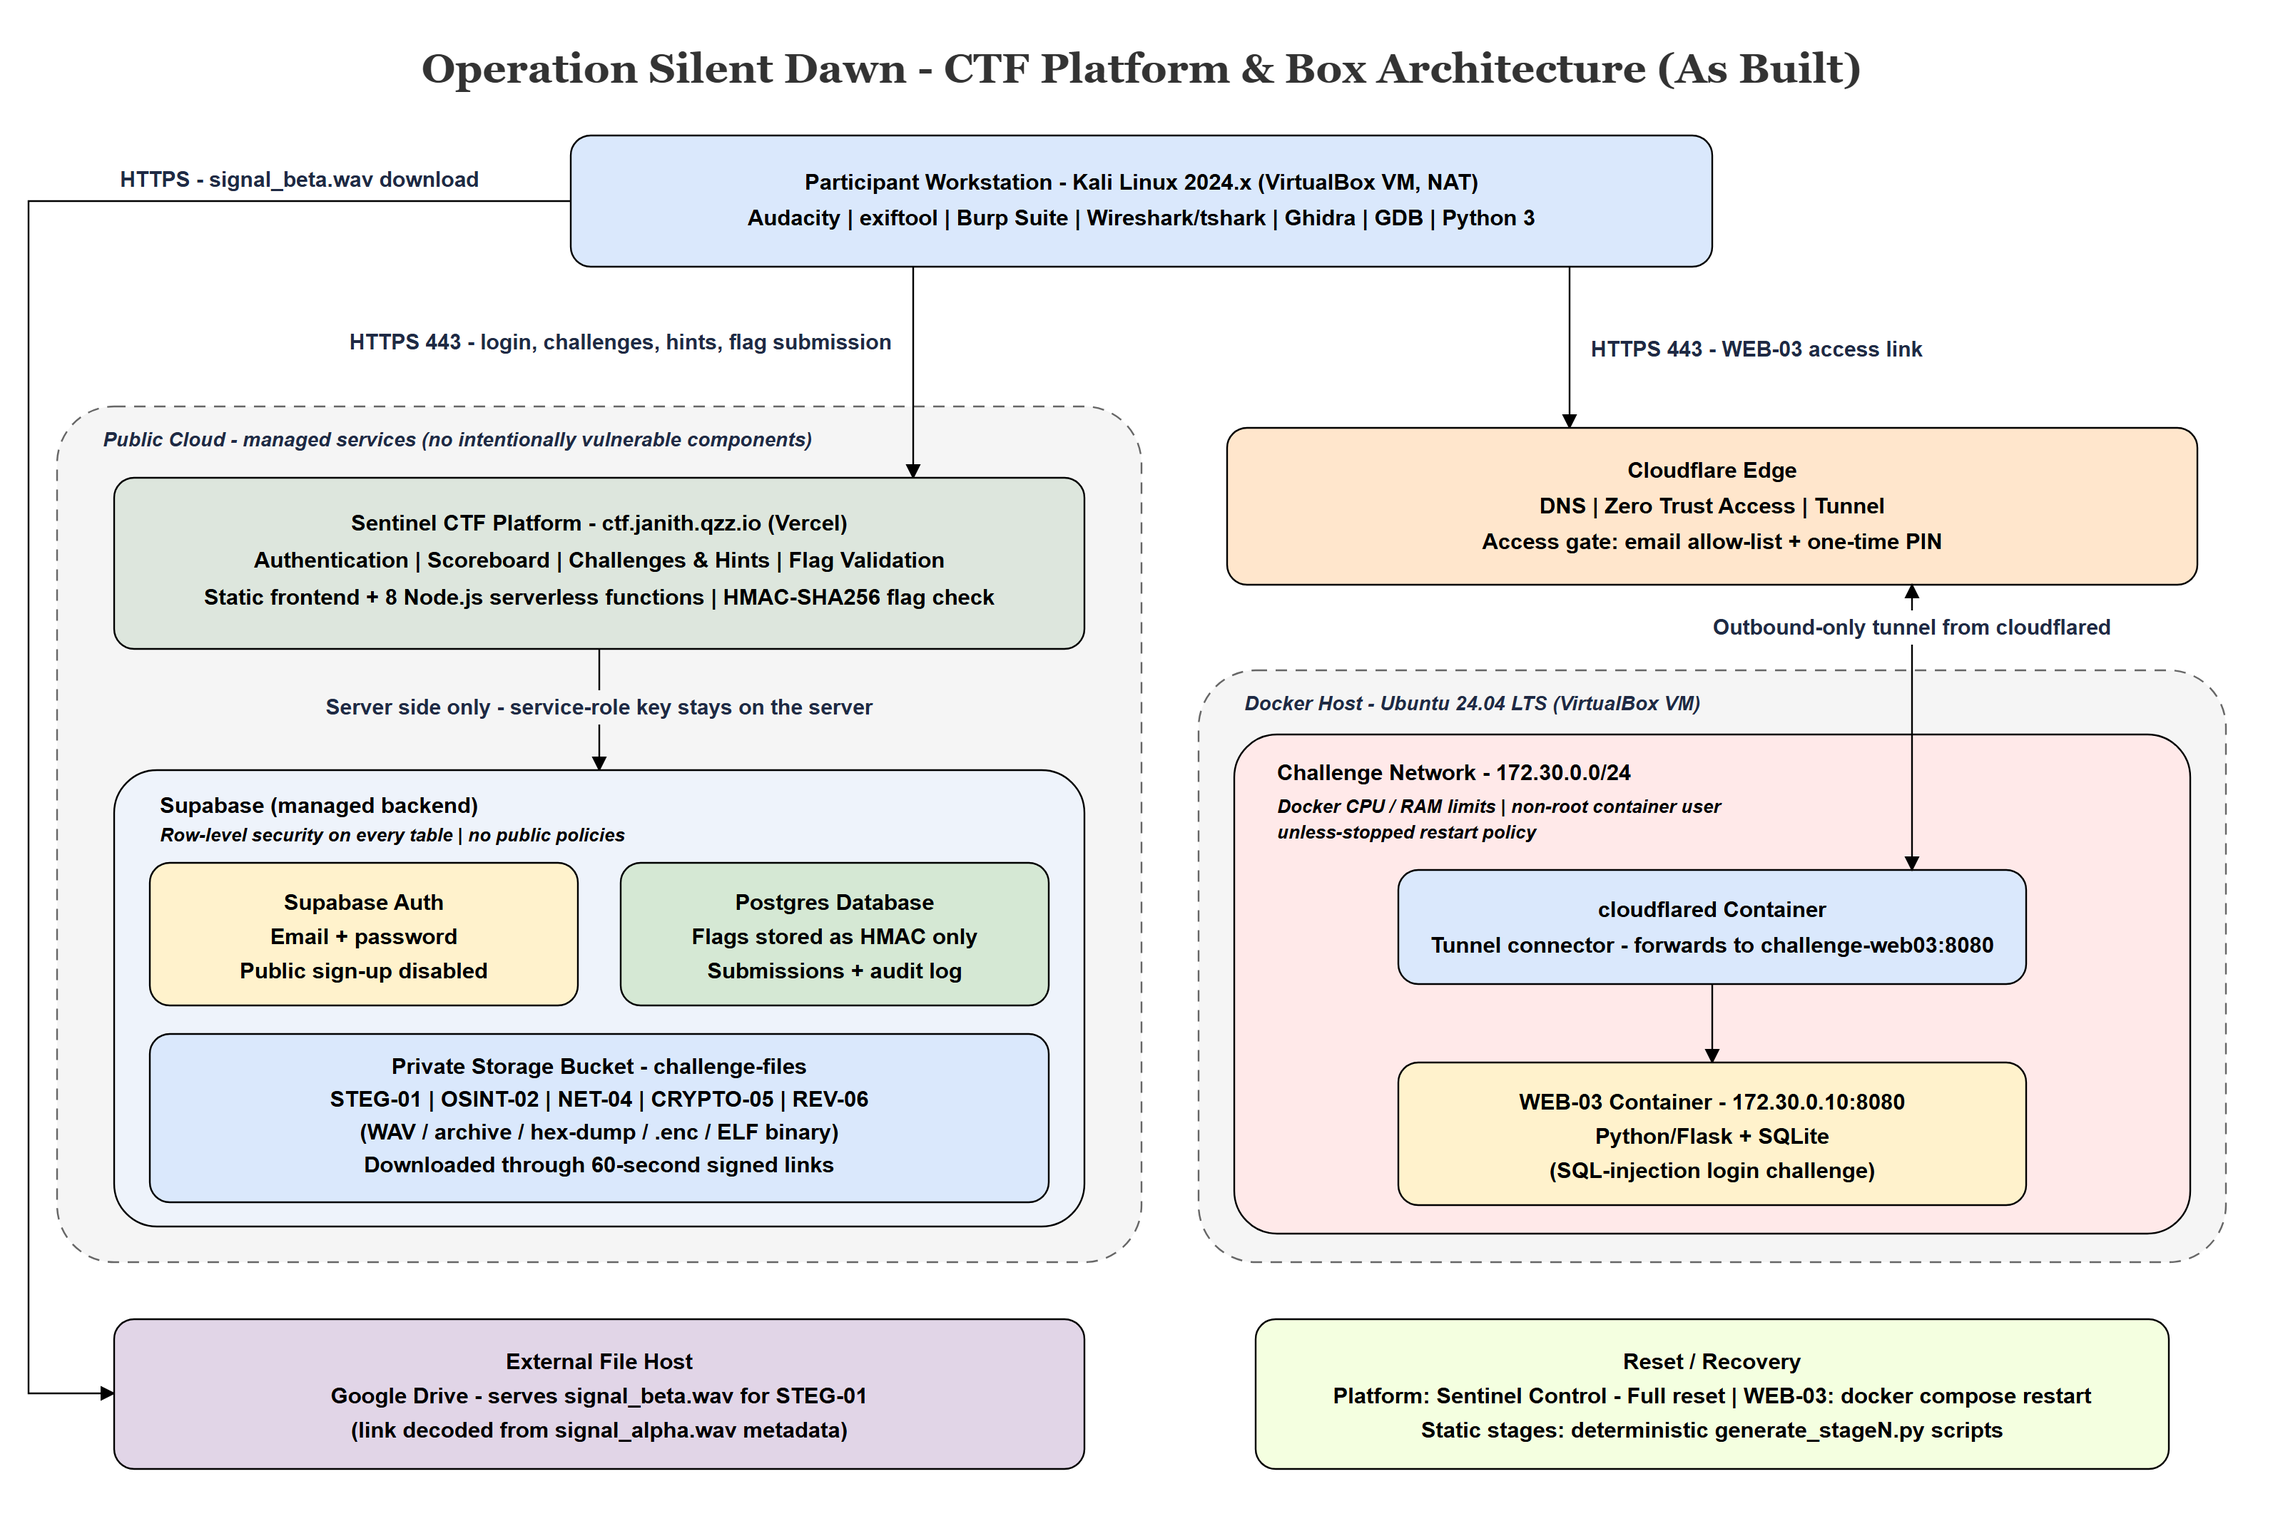
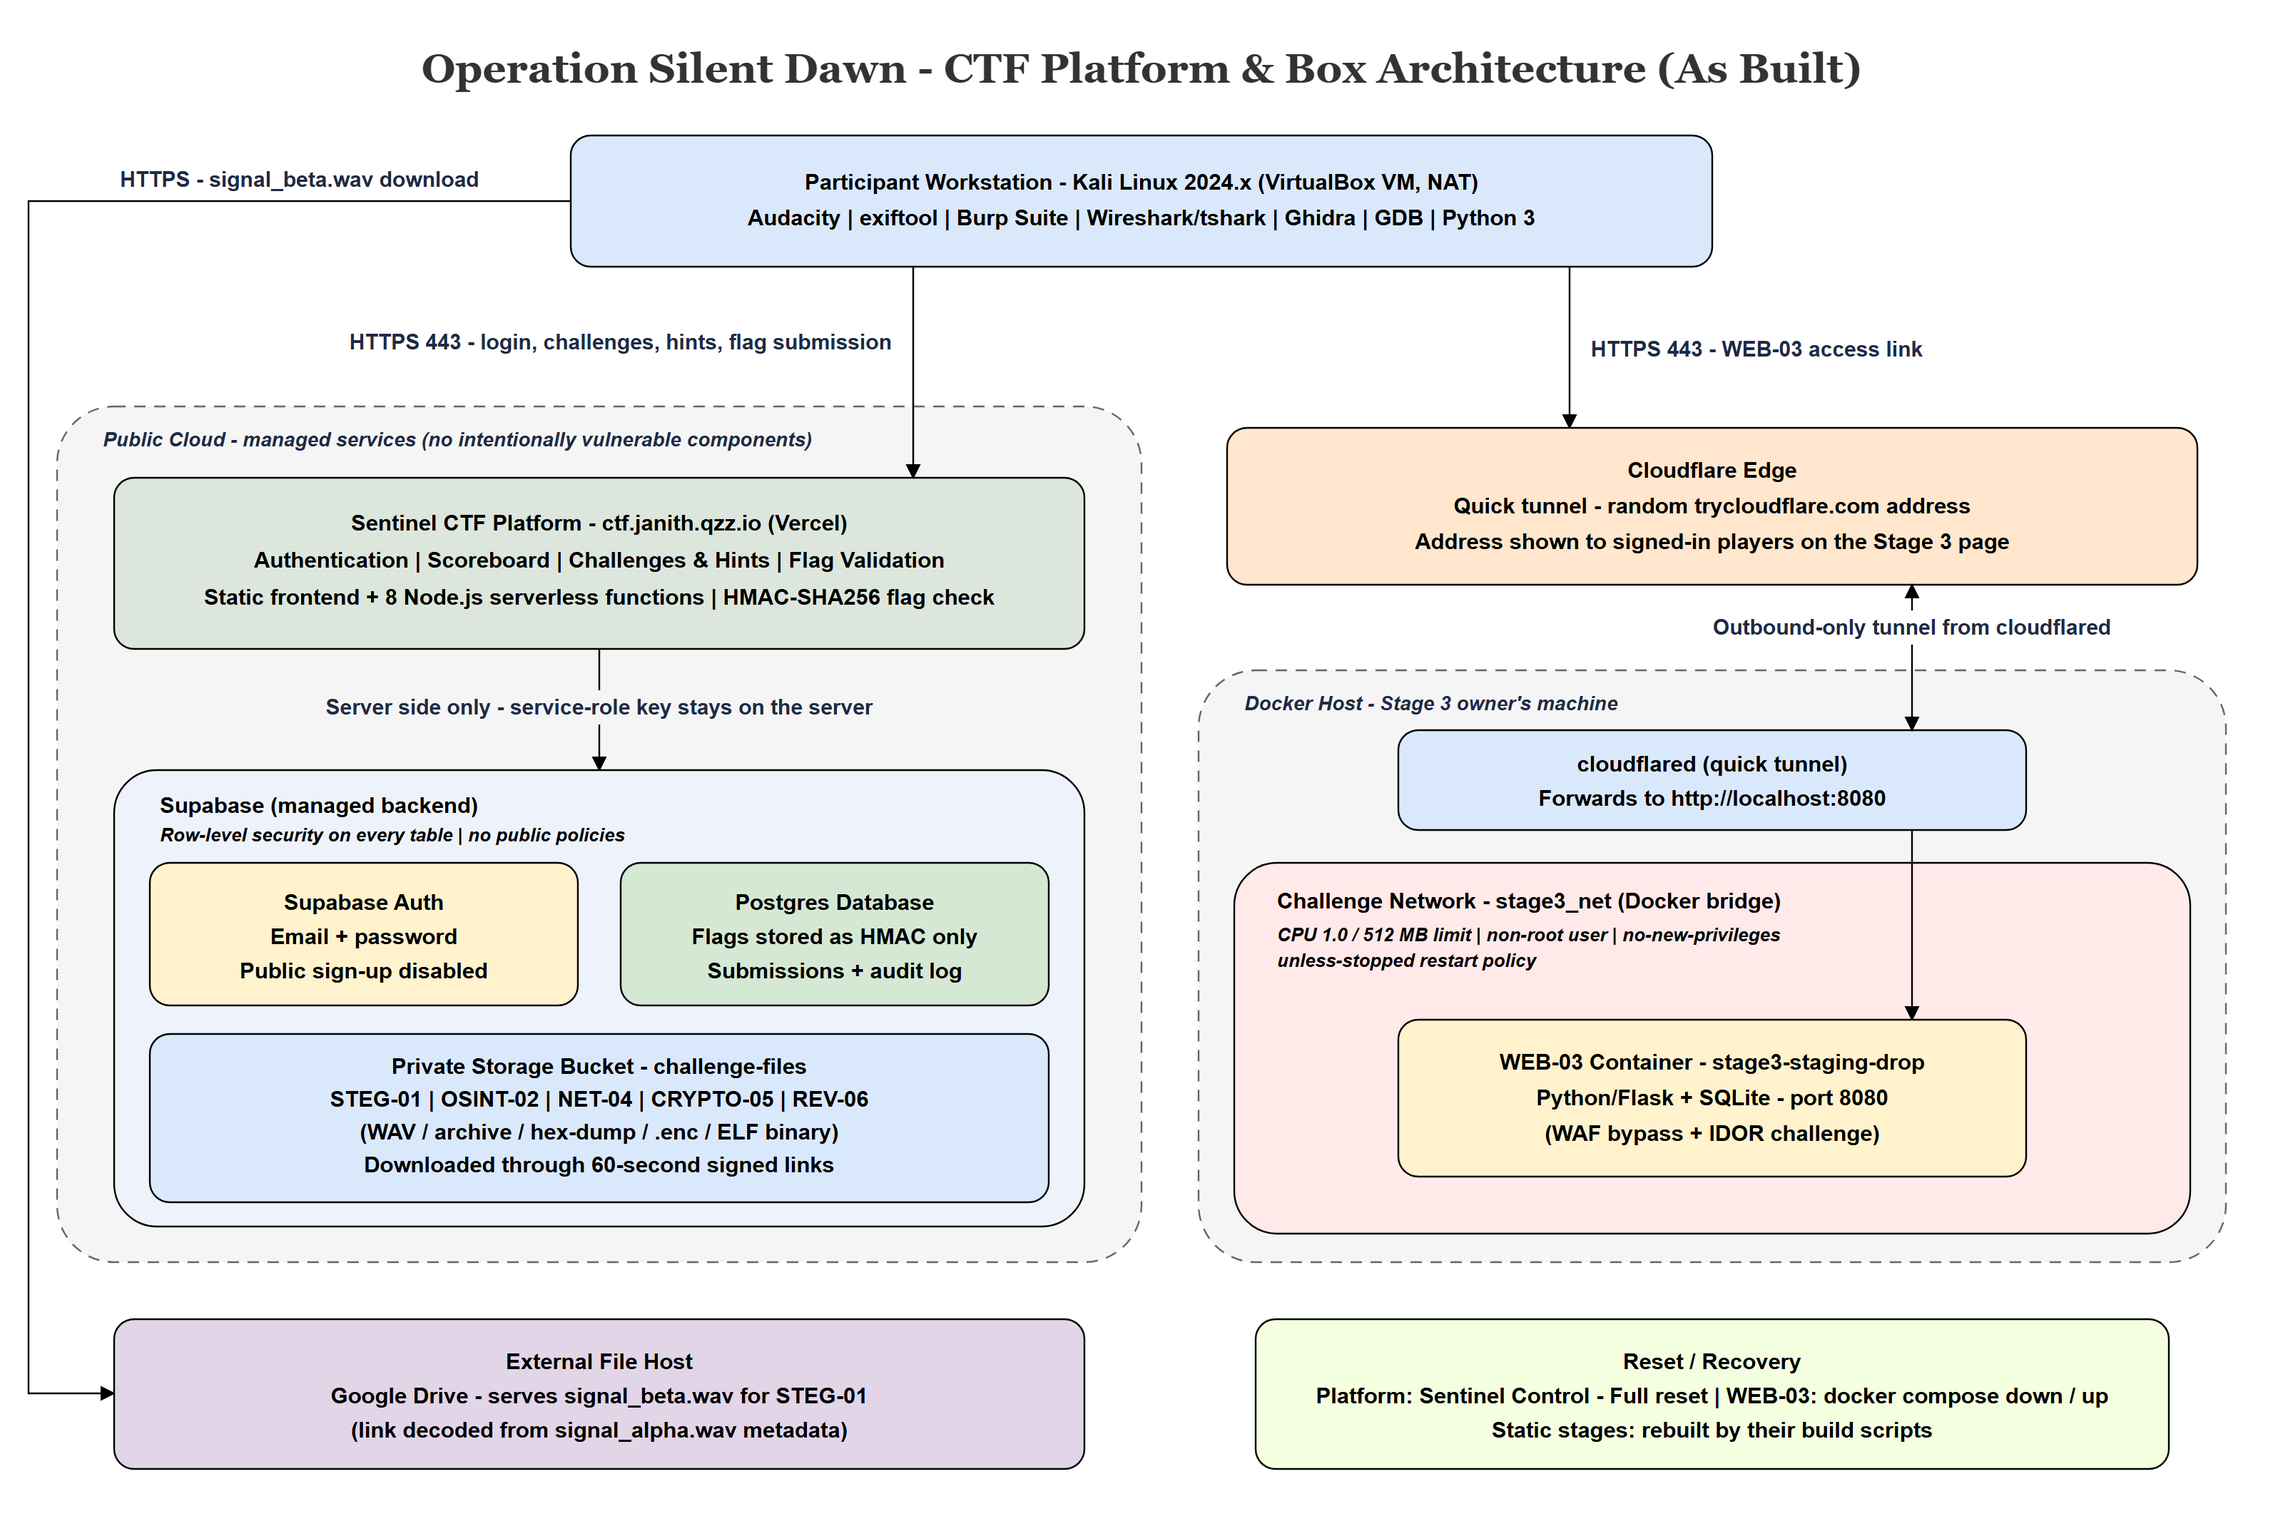
Docs: fill main README and ports table, update as-built diagram

Changed region(s): [[0.5625, 0.4318, 0.9062, 0.8019], [0.5625, 0.8944, 0.9375, 0.9561], [0.625, 0.3084, 0.875, 0.3701]]

diff --git a/README.md b/README.md
@@ -1,8 +1,8 @@
 # Operation Silent Dawn: The Eclipse Infiltration
 
-CTF Play Box for IE3132 Penetration Testing, Assignment 02. Six stages, flag format `Eclipse{...}`.
+CTF Play Box for IE3132 Penetration Testing, Assignment 02. Six stages across six domains, flag format `Eclipse{...}`.
 
-> This repository holds generator and solver scripts, so it contains answer material. Keep it private.
+> This repository holds build and solver scripts, so it contains answer material. Keep it private.
 
 ## Group
 
@@ -13,11 +13,32 @@ CTF Play Box for IE3132 Penetration Testing, Assignment 02. Six stages, flag for
 | 3 | Ranaweera C.A | IT24100520 | 4 | Platform integration and testing, risks |
 | 4 | Gunawardhana M.S.A | IT24103304 | 5, 6 | Platform and architecture design |
 
+## The box
+
+| Stage | ID | Title | Domain | Difficulty | Points | Type |
+|---|---|---|---|---|---|---|
+| 1 | STEG-01 | The Intercepted Frequency | Steganography | Easy | 100 | Static files |
+| 2 | OSINT-02 | Ground Telemetry | OSINT | Easy to Moderate | 150 | Static file |
+| 3 | WEB-03 | The Staging Drop | Web security | Moderate | 200 | Live web service |
+| 4 | NET-04 | Operation Silent Frequency | Networking | Moderate | 250 | Static file |
+| 5 | CRYPTO-05 | The Weak Cipher | Cryptography | Moderate to Hard | 300 | Static files |
+| 6 | REV-06 | The Kill-Switch Binary | Reverse engineering | Hard | 400 | Static file |
+
+Players sign in to the platform, read each case, download its files or open its access link, and submit flags there. The platform checks flags, charges points for hints and keeps the scoreboard.
+
+The box has three parts:
+
+- **Platform.** Sentinel CTF, a custom platform on Vercel with Supabase for login, database and file storage. It replaced the CTFd platform proposed in Assignment 01.
+- **Five static stages.** Stages 1, 2, 4, 5 and 6 are files that players download from the platform.
+- **One live stage.** Stage 3 is a web application in a Docker container, reached through a Cloudflare quick tunnel.
+
+`architecture/as-built-diagram.png` shows how they connect, and `architecture/ports-and-services.md` lists every service and port.
+
 ## Folder map
 
 | Path | Contents | Owner |
 |---|---|---|
-| `platform/` | CTF platform source and setup guide | IT24102137 |
+| `platform/` | Link to the platform's source repository and live site | IT24102137 |
 | `challenges/stage1-steg/` | Stage 1, The Intercepted Frequency | IT24102137 |
 | `challenges/stage2-osint/` | Stage 2, Ground Telemetry | IT24102137 |
 | `challenges/stage3-web/` | Stage 3, The Staging Drop | IT24103624 |
@@ -25,37 +46,97 @@ CTF Play Box for IE3132 Penetration Testing, Assignment 02. Six stages, flag for
 | `challenges/stage5-crypto/` | Stage 5, The Weak Cipher | IT24103304 |
 | `challenges/stage6-rev/` | Stage 6, The Kill-Switch Binary | IT24103304 |
 | `architecture/a1-approved-diagram.png` | Diagram approved in Assignment 01 | IT24103624 |
-| `architecture/as-built-diagram.png` | Diagram of the box as built | IT24103624 |
-| `architecture/ports-and-services.md` | Ports, services and network layout as built | IT24103304 |
+| `architecture/as-built-diagram.png` | Diagram of the box as built | IT24102137 |
+| `architecture/ports-and-services.md` | Ports, services and network layout as built | IT24102137 |
 
 Every stage folder has the same layout:
 
 | Path | Contents |
 |---|---|
-| `README.md` | How it was built, flag placement, intended solution path, hints, reset command |
-| `build/` | Generator script, source code, Docker files |
+| `README.md` | How it was built, flag placement, intended solution path, hints, reset |
+| `build/` | Build script, source code, Docker files |
 | `dist/` | The exact files players receive |
 | `solve/` | The owner's solver or exploit script |
 
 ## Setup
 
-_To be written._
+Deploying the box takes three steps: the platform, the static files, and the Stage 3 container.
+
+**Requirements**
+
+| For | Needed |
+|---|---|
+| Platform | A Supabase account and a Vercel account (free plans are enough) |
+| Stage 3 | Docker with Compose, and `cloudflared` |
+| Build and solver scripts | Python 3. Each stage README lists its libraries |
+
+**1. Platform.** The source is in the `sentinel-ctf` repository (see `platform/README.md`). Its `docs/SETUP.md` has every step in detail. In short:
+
+1. Create a Supabase project. In the SQL editor run `supabase/schema.sql`, then `supabase/seed.sql`.
+2. Create a private storage bucket named `challenge-files`, and turn off public sign-up.
+3. Put the project URL and public key in `public/config.js`.
+4. Import the repository into Vercel. Set `SUPABASE_URL`, `SUPABASE_SERVICE_ROLE_KEY`, `FLAG_PEPPER` and `CHALLENGE_BUCKET`, then deploy.
+5. Create the first user in Supabase and set its role to `admin`. Create player accounts from the admin console.
+6. Set the flag of each stage from the admin console (Sentinel Control, Challenges, key icon). The flags are in the stage READMEs.
+
+**2. Static files.** Upload the files in each stage's `dist/` folder to the `challenge-files` bucket, at the paths listed in Sentinel Control, Evidence. Upload `signal_beta.wav` of Stage 1 to Google Drive instead, at the link built into `signal_alpha.wav`.
+
+**3. Stage 3.** Build and start the container:
+
+```
+cd challenges/stage3-web/build
+docker compose up -d --build
+```
 
 ## Run
 
-_To be written._
+1. Start the Stage 3 container if it is not running: `docker compose up -d` in `challenges/stage3-web/build`.
+2. Open a tunnel to it:
+   ```
+   cloudflared tunnel --url http://localhost:8080
+   ```
+   It prints a random `https://....trycloudflare.com` address.
+3. In the platform, go to Sentinel Control, Access links, and set that address as the Stage 3 link.
+4. Players sign in at the platform address and start with Stage 1.
+5. When the session ends, stop `cloudflared`. The address stops working, and the next start gives a new one.
+
+The platform and the five static stages need nothing started. They are always available once deployed.
 
 ## Reset
 
-_To be written._
+| Part | How to reset |
+|---|---|
+| One player | Sentinel Control, Responders, Reset score on that player. Clears their solves and opened hints |
+| All players | Sentinel Control, Responders, Testing & reset. Reset leaderboard clears all solves and hints. Clear audit log clears all submissions. Full reset does both |
+| Stage 3 | `docker compose down`, then `docker compose up -d --build` in `challenges/stage3-web/build`. The database is rebuilt with the image |
+| Stage 1 | `python build/stage1_build.py --out dist` in `challenges/stage1-steg` (on Windows) |
+| Stage 2 | `python build/stage2_build.py --images build/source-images --out dist` in `challenges/stage2-osint` |
+| Stage 4 | Run `build/generate_stage4.py` in `challenges/stage4-net` |
+| Stages 5 and 6 | Run the generator in the stage's `build/` folder |
+
+A platform reset never touches accounts, challenges, flags, hints, files or links. The static stages hold no state that players can change, so their reset is only needed if a file is lost or damaged. Each stage README has the details and, where the build is repeatable, the file hashes to check against.
 
 ## Tools and credits
 
-_Each member lists the external tools, frameworks, images and references they used._
+| Tool or service | Used for |
+|---|---|
+| Vercel | Hosting the platform |
+| Supabase | Login, database and file storage |
+| Cloudflare (`cloudflared` quick tunnel) | Public address for Stage 3 |
+| Docker and Docker Compose | Running Stage 3 |
+| Python 3, Flask, SQLite | Stage 3 application |
+| Python 3 with NumPy, SciPy, Pillow | Stage 1 and Stage 2 build and solver scripts |
+| Python 3 with Scapy | Stage 4 generator |
+| Audacity, exiftool | Stage 1 and Stage 2 |
+| Google Drive | Hosting the second Stage 1 file |
+| Google Street View and Google Maps | Stage 2 images and route |
+| Wireshark | Stage 4 |
+
+Each stage README lists the tools for that stage in full.
 
 ## How to contribute
 
-1. Work on your own branch, named with your student ID, for example `IT24103624/stage3`.
+1. Work on your own branch, named with your student ID, for example `IT24103624-binuwara`.
 2. Commit from your own GitHub account, with your own name and email.
 3. Open a pull request into `main`.
 4. Never commit `.env` files, API keys or the platform's service-role key.

diff --git a/architecture/ports-and-services.md b/architecture/ports-and-services.md
@@ -1,19 +1,60 @@
 # Ports and services (as built)
 
-Owner: Gunawardhana M.S.A (IT24103304)
-
-> The owner fills this in from the running system, in their own words.
+Written by Samaratunga S.A.J.D.M (IT24102137). The diagram for this page is `as-built-diagram.png` in the same folder.
 
 ## Services
 
-| Component | Host | Port / protocol | Purpose | Reachable from |
+| Component | Runs on | Port / protocol | Purpose | Reachable from |
 |---|---|---|---|---|
-| | | | | |
+| Sentinel CTF platform (static site and `/api` functions) | Vercel, `ctf.janith.qzz.io` | 443/TCP, HTTPS | Login page, challenges, hints, flag submission, scoreboard, admin console | Internet. Every page with content needs a signed-in account |
+| Supabase Auth | Supabase cloud | 443/TCP, HTTPS | Email and password sign-in | The browser, with the public key. Public sign-up is turned off |
+| Supabase database | Supabase cloud | 443/TCP, HTTPS | Challenges, flag hashes, hints, solves, audit log | Only the platform's `/api` functions, with the service-role key. Row-level security blocks the public key |
+| Supabase Storage, bucket `challenge-files` | Supabase cloud | 443/TCP, HTTPS | Files for Stages 1, 2, 4, 5 and 6 | A signed link from the platform, valid for 60 seconds |
+| Stage 3 web app, container `stage3-staging-drop` | Docker on the Stage 3 owner's machine | 8080/TCP, HTTP | The intentionally vulnerable web application | The host machine and its local network (the port is published as `8080:8080`) |
+| Cloudflare quick tunnel (`cloudflared`) | Same machine as the Stage 3 container | Outbound connection to Cloudflare. Players use 443/TCP, HTTPS, on a random `trycloudflare.com` address | Carries player traffic to `localhost:8080` | Internet, for anyone who has the address |
+| Google Drive | Google | 443/TCP, HTTPS | Hosts `signal_beta.wav` for Stage 1 | Anyone who has the link from the Stage 1 metadata |
+
+Stages 1, 2, 4, 5 and 6 are static files. They have no service and open no port.
 
 ## Network layout
 
+The box has no shared lab network. Its parts talk to each other over HTTPS:
+
+1. A player's browser opens the platform on Vercel and signs in through Supabase Auth.
+2. The browser calls the platform's `/api` functions. Only those functions talk to the database and storage.
+3. For a file download, the platform returns a signed Supabase Storage link and the browser fetches the file directly.
+4. For Stage 3, the case page shows an access link. It points to the Cloudflare quick tunnel, which forwards to the container on port 8080.
+5. For Stage 1, the player follows a Google Drive link that they decode from the first file.
+
+### Stage 3 container
+
+From `challenges/stage3-web/build/docker-compose.yml` and `Dockerfile`:
+
+| Setting | Value |
+|---|---|
+| Network | `stage3_net`, a Docker bridge network used only by this container |
+| Published port | `8080:8080` |
+| User | `65532:65532` (not root) |
+| Limits | 1 CPU, 512 MB memory |
+| Security option | `no-new-privileges` |
+| Restart policy | `unless-stopped` |
+| Database | SQLite file created when the image is built |
+
+### What is exposed
+
+- The quick tunnel forwards one thing only: HTTP on `localhost:8080`. Nothing else on the host is reachable through it.
+- The tunnel is an outbound connection, so no port is opened on the router.
+- The tunnel address is random and changes every time `cloudflared` is started. The admin puts the current address on the Stage 3 case page under Sentinel Control, Access links. Only signed-in players can see it.
+- A quick tunnel has no login step of its own. Anyone who has the address can reach the Stage 3 app while the tunnel is running, so the tunnel is started for a session and stopped when the session ends.
+- Port 8080 is also published on the host, so the app can be reached from the host's local network.
+
 ## Differences from the Assignment 01 port table
 
-| Assignment 01 | As built | Reason |
+| Assignment 01 | As built | Change |
 |---|---|---|
-| | | |
+| CTFd platform, 443/TCP, on the lab Docker host | Sentinel CTF platform, 443/TCP, on Vercel with Supabase | CTFd was replaced by the custom platform |
+| Stage 3 web service, 8080/TCP, inside the isolated network | Stage 3 container, 8080/TCP, reached through a Cloudflare quick tunnel on 443/TCP | Players reach it over the internet instead of a host-only network |
+| Supporting file host, 80/TCP, serving the second Stage 1 file | No file host. `signal_beta.wav` is on Google Drive | One service fewer to run |
+| One host-only network for the whole box, no internet path | No shared network. Managed cloud services for the platform, one container for Stage 3 | The platform moved from a lab host to cloud hosting |
+
+The reasons for these changes are given in the video, in the design-changes part.
